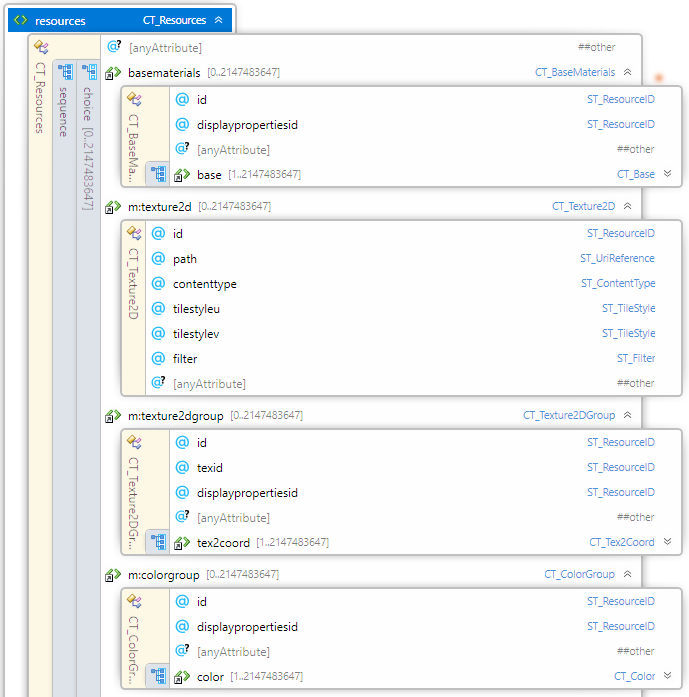
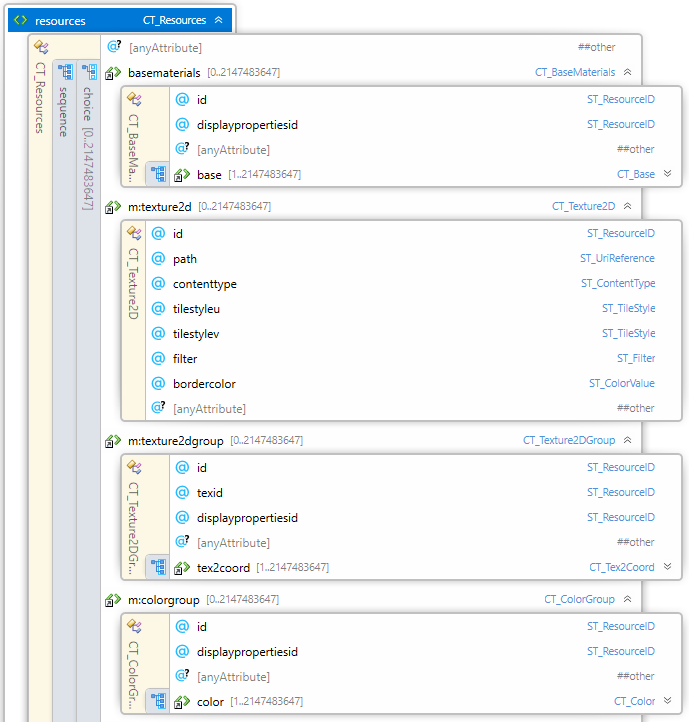
Draft 1.3.0 border color
New attribute for CT_Texture2D: bordercolor
Since this requires a schema change, updated to version 1.3.0

Changed region(s): [[0.0305, 0.0, 1.0, 0.9943]]

diff --git a/3MF Materials Extension.md b/3MF Materials Extension.md
@@ -2,7 +2,7 @@
 
 # Materials and Properties Extension
 
-| **Version** | 1.2.1 |
+| **Version** | 1.3.0 |
 | --- | --- |
 | **Status** | Draft |
 
@@ -406,6 +406,7 @@ Element **\<texture2d>**
 | tilestyleu | **ST_TileStyle** |  | wrap | Specifies how tiling should occur in the u axis in order to fill the overall requested area. Valid values are wrap, mirror, clamp, none. |
 | tilestylev | **ST_TileStyle** |  | wrap | Specifies how tiling should occur in the v axis in order to fill the overall requested area. Valid values are wrap, mirror, clamp, none. |
 | filter | **ST_Filter** |  | auto | Specifies the texture filter to apply when scaling the source texture.  Allowed values are “auto”, “linear”, “nearest” |
+| bordercolor | **ST_ColorValue** |  |  | Color for the tilestyle of "none" |
 | @anyAttribute | | | | |
 
 A 2D texture resource provides information about texture image data, found via the provided path reference, which MUST also be the target of a 3D Texture relationship from the 3D Model part.
@@ -430,8 +431,7 @@ If there is no alpha channel present in the texture, the default value #FF (opaq
 
 The box attribute was DEPRECATED in version 1.2. Producers SHOULD NOT generate it and consumer SHOULD ignore it.
 
-**tilestyleu, tilestylev** - The tile style of wrap essentially means that the same texture SHOULD be repeated in the specified axis (both in the positive and negative directions), for the axis value. The tile style of mirror means that each time the texture width or height is exceeded, the next repetition of the texture SHOULD be reflected across a plane perpendicular to the axis in question. The tile style of clamp means all Texture 2D Coordinates outside of the range zero to one will be assigned the color of the nearest edge pixel. The tile style of none means that all Texture 2D Coordinates outside the range zero to one will be assigned the color of the default object color. If the default object color is not defined the choice for the color is left to the consumer.
-
+**tilestyleu, tilestylev** - The tile style of "wrap" essentially means that the same texture SHOULD be repeated in the specified axis (both in the positive and negative directions), for the axis value. The tile style of "mirror" means that each time the texture width or height is exceeded, the next repetition of the texture SHOULD be reflected across a plane perpendicular to the axis in question. The tile style of "clamp" means all Texture 2D Coordinates outside of the range zero to one will be assigned the color of the nearest edge pixel. The tile style of "none" means that all Texture 2D Coordinates outside the range zero to one will be assigned the color specified by bordercolor. If border color is not specified, the color of the default object color. If neither is specified, the choice for the color is left to the consumer.
 
 **filter** - The producer MAY require the use of a specific filter type by specifying either “linear” for bilinear interpolation or “nearest” for nearest neighbor interpolation. The producer SHOULD use “auto” to indicate to the consumer to use the highest quality filter available. If source texture is scaled with the model, the specified filter type MUST be applied to the scaling operation. The default value is “auto”.
 
@@ -777,6 +777,7 @@ See [the 3MF Core Specification glossary](https://github.com/3MFConsortium/spec_
 		<xs:attribute name="tilestyleu" type="ST_TileStyle" default="wrap"/>
 		<xs:attribute name="tilestylev" type="ST_TileStyle" default="wrap"/>
 		<xs:attribute name="filter" type="ST_Filter" default="auto"/>
+		<xs:attribute name="bordercolor" type="ST_ColorValue" use="optional"/>
 		<xs:anyAttribute namespace="##other" processContents="lax"/>
 	</xs:complexType>
 	<xs:complexType name="CT_ColorGroup">
